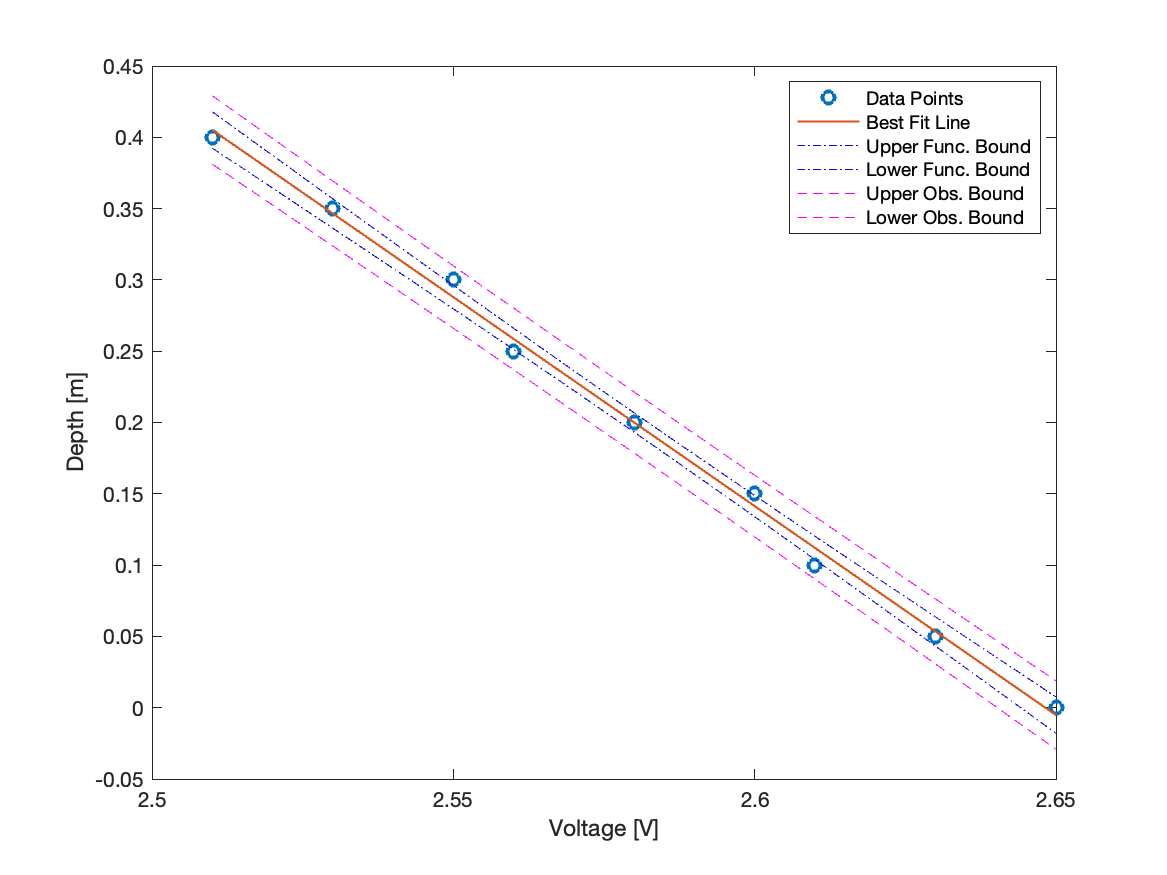
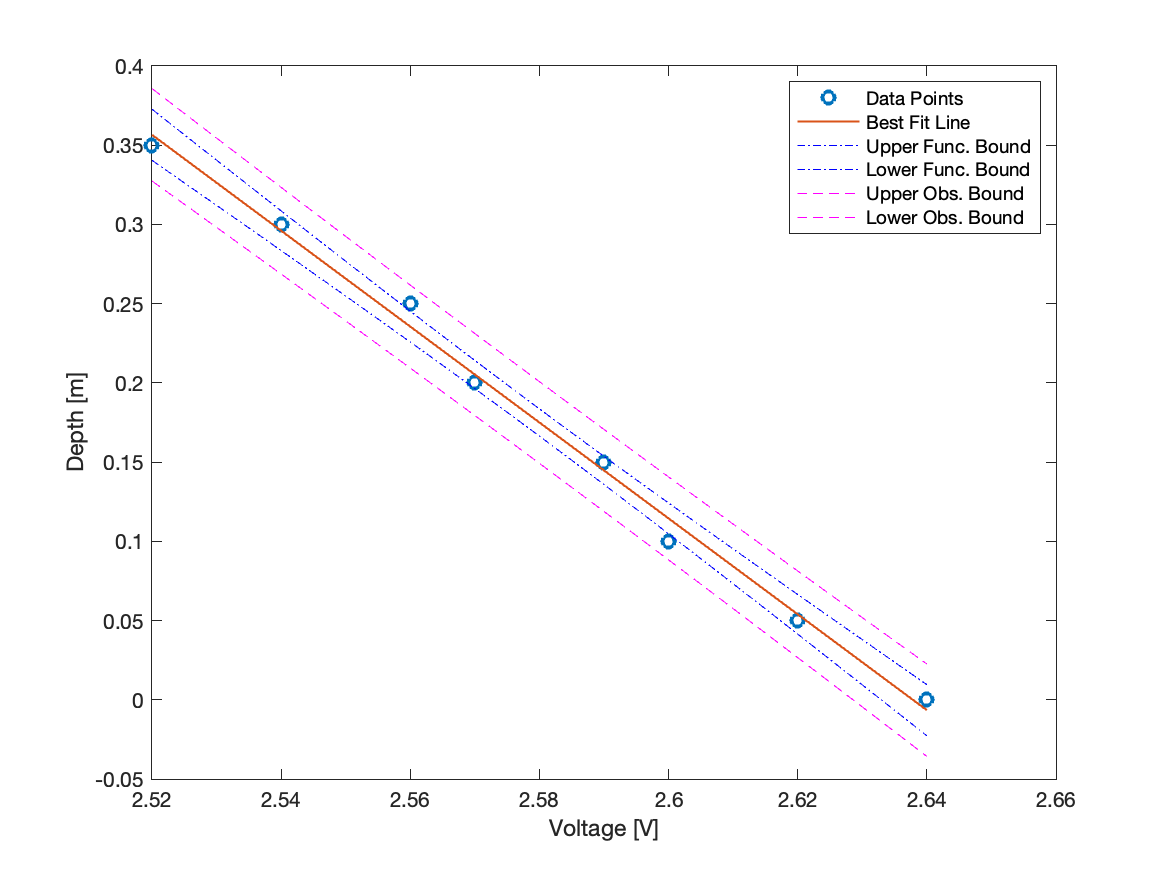
New Pressure Sensor Calibration

diff --git a/MATLAB/Pressure_Sensor_Calibration.m b/MATLAB/Pressure_Sensor_Calibration.m
@@ -1,7 +1,7 @@
 %#ok<*NOPTS>
 % voltage and depth data
-voltage = [2.65, 2.63, 2.61, 2.6, 2.58, 2.56, 2.55, 2.53, 2.51];
-depth = 0:0.05:0.4;
+voltage = [2.64, 2.62, 2.60, 2.59, 2.57, 2.56, 2.54, 2.52];
+depth = 0:0.05:0.35;
 
 
 confLev = 0.95; % The confidence level

diff --git a/libraries/main/ZStateEstimator.h b/libraries/main/ZStateEstimator.h
@@ -34,8 +34,8 @@ public:
   int lastExecutionTime = -1;
 
 private:
-  const float depthCal_slope = -2.9310;
-  const float depthCal_intercept = 7.7621;
+  const float depthCal_slope = -3.0263;
+  const float depthCal_intercept = 7.9829;
 
 };
 
